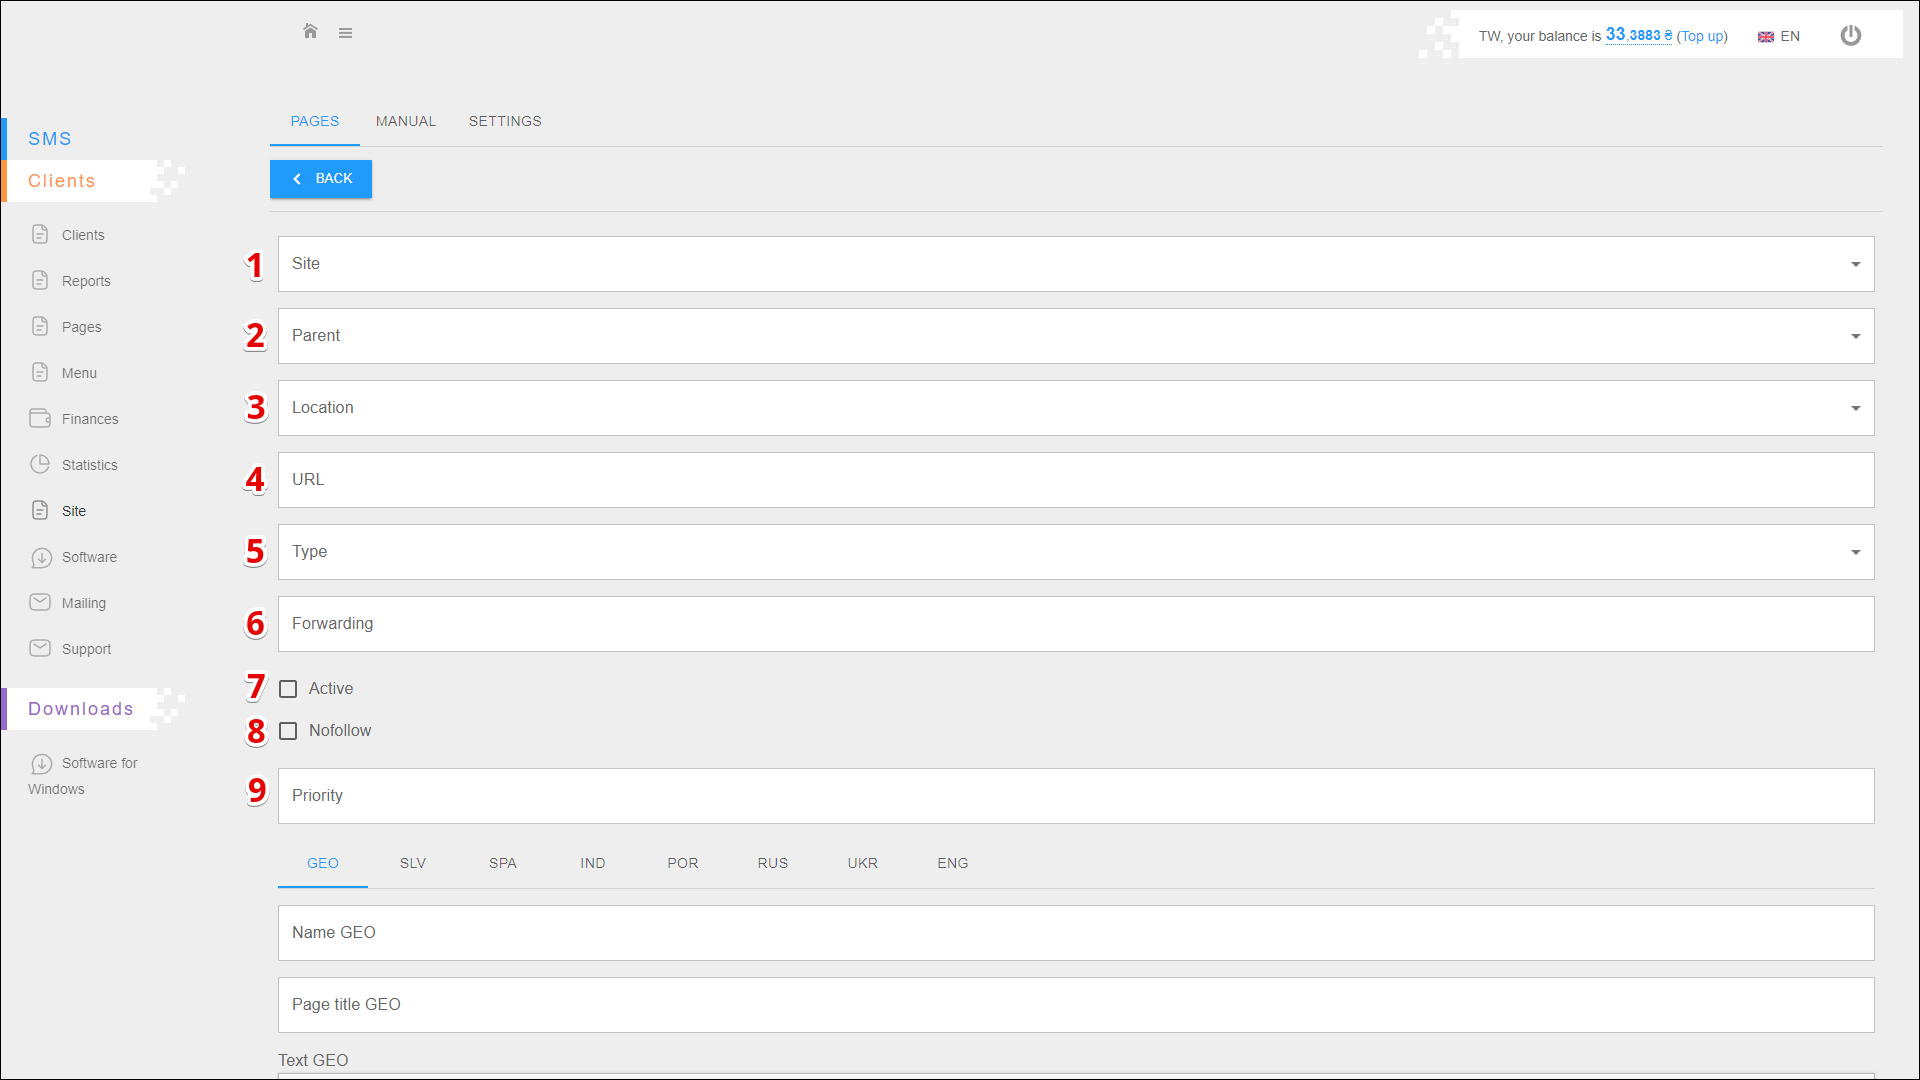
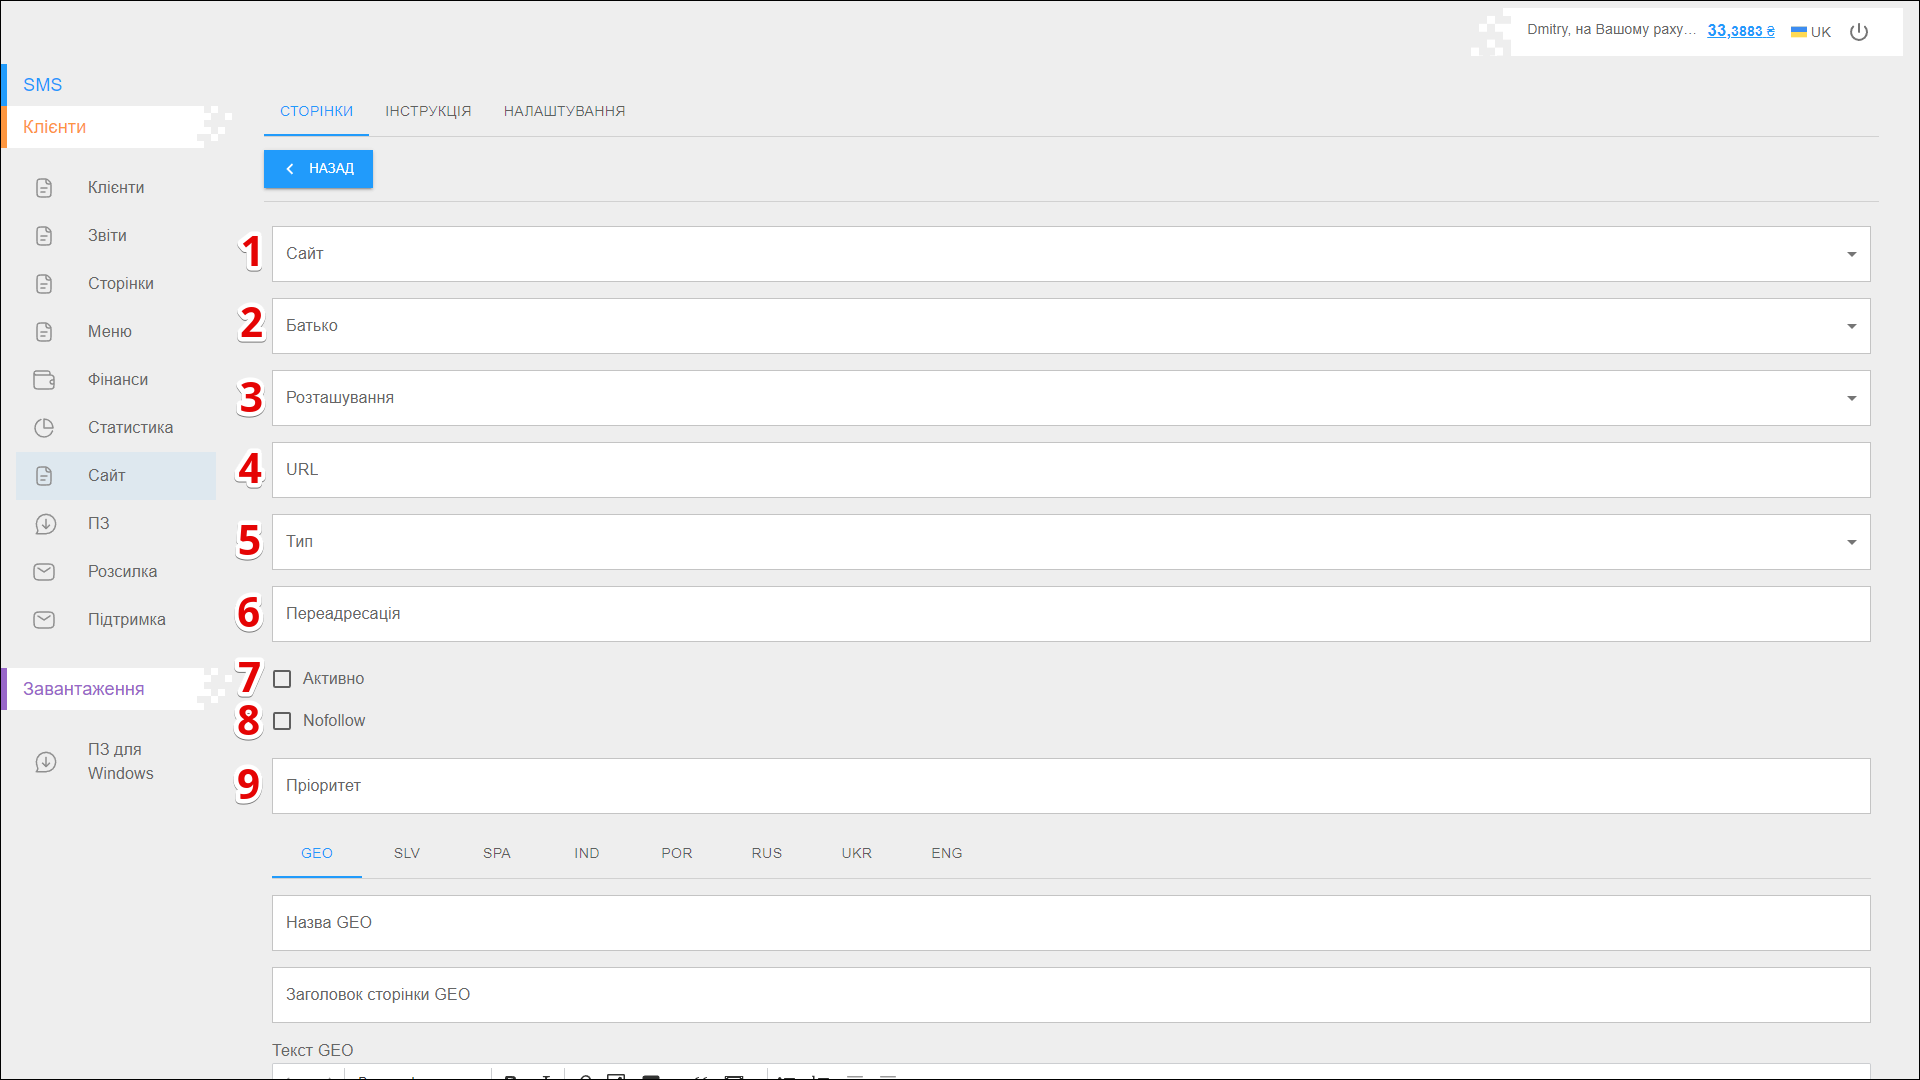
Клієнти-Сайт-Сторінки

diff --git a/i18n/uk/docusaurus-plugin-content-docs/current/instruction/clients/site/pages_clients.md b/i18n/uk/docusaurus-plugin-content-docs/current/instruction/clients/site/pages_clients.md
@@ -3,3 +3,72 @@ id: pages_clients
 title: Сторінки
 slug: /pages_clients
 ---
+
+На цій вкладці ви можете налаштувати структуру інформаційних сторінок сайту. Ви можете додавати нові сторінки, а також редагувати і видаляти вже створені.
+
+Щоб відкрити цю вкладку, виберіть **Клієнти** → **Сайт** у боковому меню та оберіть вкладку **СТОРІНКИ**.
+
+![image1](/img/uk/clients_site_pages/image1.png)
+
+## Додавання сторінки
+
+Щоб додати нову сторінку, натисніть кнопку **+ ДОДАТИ** у верхньому лівому кутку сторінки.
+
+![image2](/img/uk/clients_site_pages/image2.png)
+
+Далі виконайте наведені нижче дії:
+
+|  №  | Дія |
+| :-: | --- |
+| 1 | Виберіть зі списку **Сайт**, для якого ви хочете додати сторінку |
+| 2 | Виберіть **Батьківську** сторінку зі списку |
+| 3 | Вкажіть **Розташування** сторінки: <li>**Основне меню**</li><li>**Нижнє меню**</li><li>**Меню користувача**</li><li>**Меню зліва**</li> |
+| 4 | Вкажіть **URL** нової сторінки |
+| 5 | Виберіть **Тип** нової сторінки: <li>**Текстова сторінка**</li><li>**Головна сторінка**</li><li>**Ціни на SMS**</li><li>**Акаунт**</li><li>**Міжнародні SMS**</li><li>**Зворотній зв'язок**</li><li>**Лендінг**</li> |
+| 6 | Вкажіть адресу **Переадресації** |
+| 7 | Відмітьте чекбокс **Активно** для активації сторінки |
+| 8 | Відмітьте чекбокс **Nofollow** якщо необхідно для посилань активувати параметр `nofollow` |
+| 9 | Вкажіть **Пріоритет** сторінки |
+
+![image3](/img/uk/clients_site_pages/image3.png)
+
+|  №  | Дія |
+| :-: | --- |
+| 10 | Оберіть **Мову** сторінки: <li>**GEO** - Грузинська мова</li><li>**SLV** - Словенська мова</li><li>**SPA** - Іспанська мова</li><li>**IND** - Індонезійська мова</li><li>**POR** - Португальська мова</li><li>**RUS** - Російська мова</li><li>**UKR** - Українська мова</li><li>**ENG** - Англійська мова</li> <br/> Ви можете встановити такі параметри для декількох мов |
+| 11 | Вкажіть **Назву** сторінки |
+| 12 | Вкажіть **Заголовок сторінки** |
+| 13 | За допомогою редактора введіть **Текст**, який буде відображатися на сторінці |
+| 14 | Вкажіть **Ключові слова** через кому |
+| 15 | Додайте **Опис** сторінки |
+
+Натисніть **ВИКОНАТИ**, щоб зберегти сторінку.
+
+![image4](/img/uk/clients_site_pages/image4.png)
+
+## Таблиця зі сторінками
+
+Таблиця містить перелік сторінок з детальною інформацією про них. Дані розташовані в окремих колонках:
+
+![image5](/img/uk/clients_site_pages/image5.png)
+
+|  №  | Колонка | Опис |
+| :-: | ------- | ---- |
+| 1 | **Назва** | Назва сторінки |
+| 2 | **URL** | URL сторінки |
+| 3 | **Активно** | Чи активна сторінка |
+
+## Редагування сторінки
+
+Щоб відредагувати сторінку, натисніть на неї в таблиці зі сторінками. Відкриється сторінка **редагування сторінки**, дії аналогічні при [додаванні сторінки](#додавання-сторінки).
+
+![image6](/img/uk/clients_site_pages/image6.png)
+
+## Видалення сторінки
+
+Щоб видалити одну або кілька сторінок, відмітьте **Чекбокс** навпроти потрібних сторінок і натисніть іконку кнопки **Видалити** у верхньому правому куті сторінки.
+
+![image7](/img/uk/clients_site_pages/image7.png)
+
+Щоб вибрати всі сторінки, відмітьте чекбокс у заголовку таблиці.
+
+![image8](/img/uk/clients_site_pages/image8.png)
